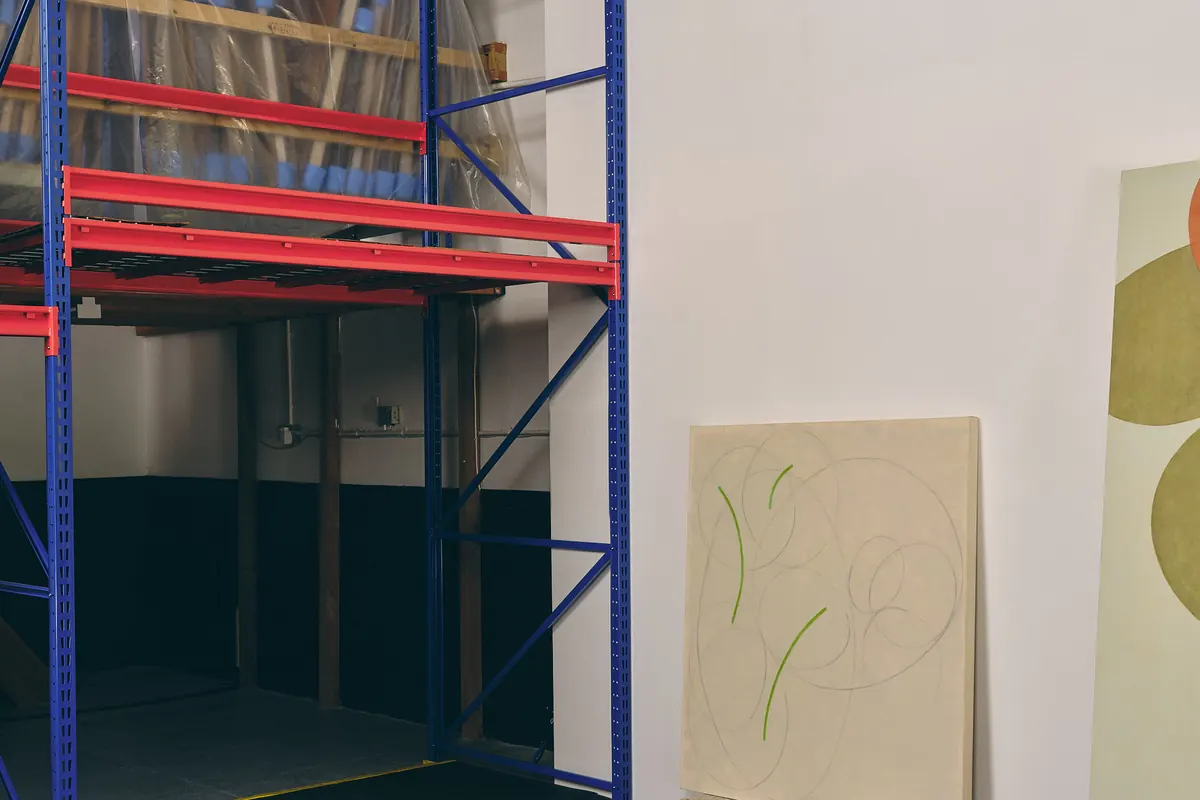
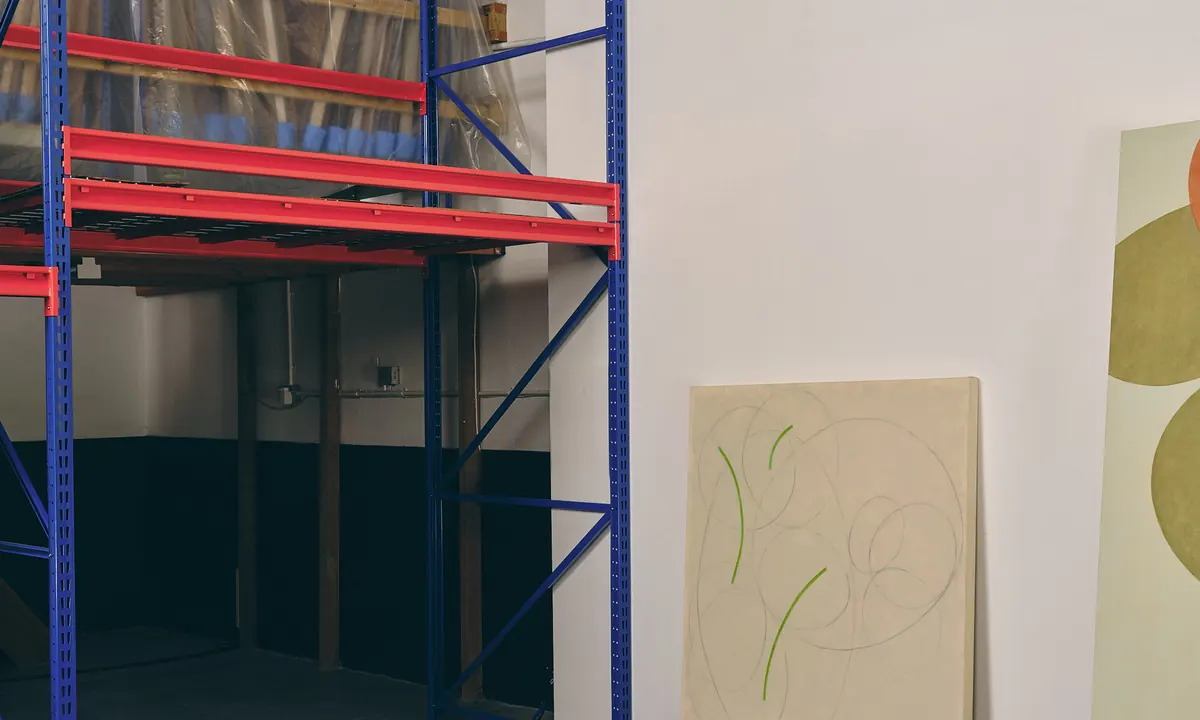
Fix the arrow, and settle the service page layouts
- The CSS arrow was broken: the head floated above the shaft and the two never
  met. The head is now a square turned about its own centre and offset by
  0.207 of its side, which is how far a 45-degree rotation pushes a corner past
  its box, so the vertex lands exactly on the end of the line. This affected
  every arrow on the site - the enquiry rows on Contact, the enquiry block on
  the home page, and the links on About.
- About's "Get in touch" is now a line running on from the words with the arrow
  at its end, rather than an underline beneath them.
- Alternating rows are the same layout and ratio, mirrored: 5:3 throughout, on
  all three service pages.
- Storage & Handling runs head, 01.1 full width, then five mirrored rows.
- Collection Management's title no longer runs under the picture beside it; the
  display size is capped so the longest word holds its column.
- On a phone every picture below the lead takes the same 5:3 ratio.
- The pointer opens to 22px over a link rather than 34px.

diff --git a/storage-and-handling.html b/storage-and-handling.html
@@ -91,40 +91,48 @@
       <figcaption>141 Acton Lane.</figcaption>
     </figure>
   </section>
-  <section class="shell two-up" data-reveal>
-    <article class="entry-card" id="storage">
-      <span class="ledger">01.1</span>
-      <h2>Storage</h2>
-      <p>Discreet, secure, climate-controlled storage in Park Royal, north-west London. We offer some of the most competitive storage rates in the city without compromising on the care of the work.</p>
-      <ul class="spec">
-          <li>24-hour monitored security</li>
-          <li>Climate and humidity controlled throughout</li>
-          <li>Racking sized for works large and small</li>
-          <li>Every movement handled by trained fine art technicians</li>
-          <li>Declared values required for all works stored; insurance cover available through us or your own policy</li>
-      </ul>
-      <figure>
-        <div class="plate plate--r32">
-          <img src="assets/img/sh-storage-1200.webp" width="1200" height="900"
-               loading="lazy" decoding="async" alt="Racking bays inside the Storehouse facility.">
-        </div>
-        <figcaption>Racking, sized for works large and small.</figcaption>
-      </figure>
-    </article>
-    <article class="entry-card" id="transport">
-      <span class="ledger">01.2</span>
-      <h2>Transport</h2>
-      <p>Collection and delivery across the UK. Works move between your premises and our facility, with installation in London and nationwide.</p>
-      <figure>
-        <div class="plate plate--r32">
+  <section class="shell entry-full" id="storage" data-reveal>
+    <div class="entry-full__text">
+      <div>
+        <span class="ledger">01.1</span>
+        <h2>Storage</h2>
+      </div>
+      <div>
+        <p>Discreet, secure, climate-controlled storage in Park Royal, north-west London. We offer some of the most competitive storage rates in the city without compromising on the care of the work.</p>
+        <ul class="spec">
+            <li>24-hour monitored security</li>
+            <li>Climate and humidity controlled throughout</li>
+            <li>Racking sized for works large and small</li>
+            <li>Every movement handled by trained fine art technicians</li>
+            <li>Declared values required for all works stored; insurance cover available through us or your own policy</li>
+        </ul>
+      </div>
+    </div>
+    <figure class="entry-full__figure">
+      <div class="plate plate--r53">
+        <img src="assets/img/sh-storage-1200.webp" width="1200" height="720"
+             loading="lazy" decoding="async" alt="Racking bays inside the Storehouse facility.">
+      </div>
+      <figcaption>Racking, sized for works large and small.</figcaption>
+    </figure>
+  </section>
+  <section class="shell alt" id="transport" data-side="left" data-reveal>
+    <div class="alt__grid">
+      <div class="alt__text">
+        <span class="ledger">01.2</span>
+        <h2>Transport</h2>
+        <p>Collection and delivery across the UK. Works move between your premises and our facility, with installation in London and nationwide.</p>
+      </div>
+      <figure class="alt__figure">
+        <div class="plate plate--r53">
           <img src="assets/img/sh-transport-1200.webp" width="1200" height="900"
                loading="lazy" decoding="async" alt="The padded interior of a fitted Storehouse vehicle.">
         </div>
         <figcaption>Fitted vehicles, loaded by the people who packed.</figcaption>
       </figure>
-    </article>
+    </div>
   </section>
-  <section class="shell alt" id="packing" data-side="left" data-reveal>
+  <section class="shell alt" id="packing" data-side="right" data-reveal>
     <div class="alt__grid">
       <div class="alt__text">
         <span class="ledger">01.3</span>
@@ -133,7 +141,7 @@
         <p>Condition checking, packing and handling by experienced technicians.</p>
       </div>
       <figure class="alt__figure">
-        <div class="plate plate--r52">
+        <div class="plate plate--r53">
           <img src="assets/img/sh-packing-1200.webp" width="1200" height="900"
                loading="lazy" decoding="async" alt="A technician wrapping a work on a padded table.">
         </div>
@@ -141,7 +149,7 @@
       </figure>
     </div>
   </section>
-  <section class="shell alt" id="installation" data-side="right" data-reveal>
+  <section class="shell alt" id="installation" data-side="left" data-reveal>
     <div class="alt__grid">
       <div class="alt__text">
         <span class="ledger">01.4</span>
@@ -158,7 +166,7 @@
       </figure>
     </div>
   </section>
-  <section class="shell alt" id="photography" data-side="left" data-reveal>
+  <section class="shell alt" id="photography" data-side="right" data-reveal>
     <div class="alt__grid">
       <div class="alt__text">
         <span class="ledger">01.5</span>
@@ -171,7 +179,7 @@
         </ul>
       </div>
       <figure class="alt__figure">
-        <div class="plate plate--r52">
+        <div class="plate plate--r53">
           <img src="assets/img/sh-photography-1200.webp" width="1200" height="900"
                loading="lazy" decoding="async" alt="A technician photographing a framed work on a tripod-mounted camera.">
         </div>
@@ -179,7 +187,7 @@
       </figure>
     </div>
   </section>
-  <section class="shell alt" id="viewing-room" data-side="right" data-reveal>
+  <section class="shell alt" id="viewing-room" data-side="left" data-reveal>
     <div class="alt__grid">
       <div class="alt__text">
         <span class="ledger">01.6</span>

diff --git a/assets/css/site.css b/assets/css/site.css
@@ -510,7 +510,7 @@ html[data-cursor="on"] .hero-field { cursor: none; }
    -------------------------------------------------------------------------- */
 
 .page-head { padding-top: clamp(2.5rem, 6vw, 5.5rem); padding-bottom: var(--band); }
-.page-head h1 { font-size: var(--t-display); }
+.page-head h1 { font-size: clamp(2.4rem, 1.1rem + 4.2vw, 4.6rem); }
 .page-head .ledger { margin-bottom: 1.4rem; display: block; }
 .page-head .lead {
   margin-top: clamp(1.75rem, 4vw, 3rem);
@@ -654,6 +654,17 @@ html[data-cursor="on"] .hero-field { cursor: none; }
     from { opacity: 0; transform: translateY(0.7rem); }
     to   { opacity: 1; transform: none; }
   }
+}
+
+/* On a phone every picture below the lead takes the same ratio, so the pages
+   read as one rhythm rather than three. */
+@media (max-width: 56rem) {
+  .two-up .plate,
+  .alt__figure .plate,
+  .entry-full .plate { aspect-ratio: 5 / 3; }
+  .two-up .plate img,
+  .alt__figure .plate img,
+  .entry-full .plate img { height: 100%; object-fit: cover; }
 }
 
 /* ---- Phones: one swipeable row, the line running through it ------------ */
@@ -801,7 +812,7 @@ html[data-cursor="on"] .hero-field { cursor: none; }
   .page-split { grid-template-columns: minmax(0, 0.62fr) minmax(0, 1fr); }
 }
 .page-split .ledger { display: block; margin-bottom: 1rem; }
-.page-split h1 { font-size: var(--t-display); }
+.page-split h1 { font-size: clamp(2.4rem, 1.1rem + 4.2vw, 4.6rem); }
 .page-split .lead {
   margin-top: clamp(1.25rem, 2.5vw, 2rem);
   font-size: var(--t-body);
@@ -826,6 +837,23 @@ html[data-cursor="on"] .hero-field { cursor: none; }
 .entry-card h2 { font-size: var(--t-title); margin-bottom: 1rem; }
 .entry-card .spec { margin-top: 1.25rem; }
 .entry-card figure { margin: var(--stack) 0 0; }
+
+/* A full-width entry: the words in two columns across the top, the picture
+   spanning the page beneath them. */
+.entry-full { padding-block: clamp(2rem, 1rem + 2.6vw, 3.25rem); border-top: 1px solid var(--rule); }
+.entry-full__text {
+  display: grid;
+  gap: 0.75rem var(--gutter);
+  grid-template-columns: 1fr;
+  margin-bottom: var(--stack);
+}
+@media (min-width: 56rem) {
+  .entry-full__text { grid-template-columns: minmax(0, 1fr) minmax(0, 1fr); }
+}
+.entry-full__text .ledger { display: block; margin-bottom: 0.7rem; }
+.entry-full__text h2 { font-size: var(--t-title); }
+.entry-full__text .spec { margin-top: 1.5rem; }
+.entry-full__figure { margin: 0; }
 
 /* Alternating entries: text and picture swap sides down the page, so the eye
    is carried from one to the next rather than reading a single column. */
@@ -972,6 +1000,22 @@ figure { margin: 0; }
 .panel .link { border-bottom-color: color-mix(in srgb, var(--canvas) 50%, transparent); }
 .panel .link:hover { color: var(--canvas); border-bottom-color: var(--canvas); }
 
+.link--trail {
+  --arrow-w: 3.4em;
+  display: inline-flex;
+  align-items: center;
+  gap: 0.9rem;
+  font-family: var(--sans);
+  font-size: var(--t-body);
+  text-decoration: none;
+  border: 0;
+  transition: color 0.25s ease;
+}
+.link--trail:hover { color: var(--ultramarine); }
+.link--trail .arrow { transition: transform 0.35s cubic-bezier(0.22, 1, 0.36, 1); }
+.link--trail:hover .arrow { transform: translateX(0.3rem); }
+
+
 .action {
   display: inline-flex;
   align-items: baseline;
@@ -988,27 +1032,32 @@ figure { margin: 0; }
 .arrow {
   display: inline-block;
   position: relative;
-  width: 1.35em;
-  height: 0.62em;
+  width: var(--arrow-w, 1.9em);
+  height: 0.8em;
   flex: none;
+  vertical-align: middle;
 }
+/* The shaft, on the vertical centre of the element. */
 .arrow::before {
   content: "";
   position: absolute;
   top: 50%; left: 0; right: 0;
   height: 1px;
+  margin-top: -0.5px;
   background: currentColor;
 }
+/* The head: a square turned about its own centre, so its vertex lands exactly
+   on the end of the shaft. Offset by 0.207 x its side, which is how far a
+   45-degree rotation pushes the corner past the box. */
 .arrow::after {
   content: "";
   position: absolute;
-  top: 50%; right: 0;
-  width: 0.34em; height: 0.34em;
-  margin-top: -0.17em;
+  top: 50%; right: 0.091em;
+  width: 0.44em; height: 0.44em;
+  margin-top: -0.22em;
   border-top: 1px solid currentColor;
   border-right: 1px solid currentColor;
   transform: rotate(45deg);
-  transform-origin: top right;
 }
 .action .arrow { transition: transform 0.35s cubic-bezier(0.22, 1, 0.36, 1); }
 .action:hover .arrow { transform: translateX(0.35rem); }
@@ -1274,8 +1323,8 @@ address {
 
   /* It opens up over anything you can act on. */
   .cursor-dot[data-over="link"] {
-    width: 34px; height: 34px;
-    margin: -17px 0 0 -17px;
+    width: 22px; height: 22px;
+    margin: -11px 0 0 -11px;
     background: color-mix(in srgb, var(--ultramarine) 34%, transparent);
   }
   /* On the dark and blue grounds it inverts so it stays visible. */

diff --git a/about.html b/about.html
@@ -101,7 +101,7 @@
              ================================================================ -->
 
         <p style="margin-top:1.5rem">
-          <a class="link" href="contact.html">Get in touch <span class="arrow" aria-hidden="true"></span></a>
+          <a class="link link--trail" href="contact.html">Get in touch <span class="arrow" aria-hidden="true"></span></a>
         </p>
       </div>
 

diff --git a/collection-management.html b/collection-management.html
@@ -131,7 +131,7 @@
         </ul>
       </div>
       <figure class="alt__figure">
-        <div class="plate plate--r52">
+        <div class="plate plate--r53">
           <img src="assets/img/cm-research-1200.webp" width="1200" height="900"
                loading="lazy" decoding="async" alt="A gloved hand holding a tape measure across the back of a stretched canvas.">
         </div>

diff --git a/exhibition-services.html b/exhibition-services.html
@@ -130,7 +130,7 @@
         </ul>
       </div>
       <figure class="alt__figure">
-        <div class="plate plate--r52">
+        <div class="plate plate--r53">
           <img src="assets/img/ex-shipping-1200.webp" width="1200" height="900"
                loading="lazy" decoding="async" alt="Two marked Storehouse crates standing on their bearers.">
         </div>

diff --git a/README.md b/README.md
@@ -98,6 +98,11 @@ The brand faces, self-hosted as woff2 in `assets/fonts/`:
 | Body copy | Rhymes Text | `rhymes-text-400/500.woff2` |
 | Index numbers, captions | IBM Plex Mono | Google Fonts |
 
+Arrows are drawn in CSS rather than typed — a shaft with a square turned about
+its own centre so the vertex lands exactly on the end of it. That is both
+because the Beausite trial has no arrow glyph and because it lets the line run
+on from the words, as on the About page's "Get in touch".
+
 > **These are trial files and are not licensed for use on a public site.**
 > One of them says so in its own filename
 > (`RhymesTextTrialUnlicensed`). Web licences must be bought and the licensed
@@ -176,10 +181,18 @@ shape, built to Tom's reference:
 3. `.alt` rows for the rest — text and picture on opposite edges, alternating,
    text vertically centred against the picture.
 
-The picture ratios differ by placement, as they do on the reference: 4:3 for
-the head, 3:2 in the pair, then 5:2 and 5:3 alternating down the page. Each
-image is cropped to its placement's ratio at source, with a focal point set per
-picture, rather than being cropped twice by `object-fit`.
+The picture ratios are 4:3 for the head and 5:3 for every entry below it, with
+the pair on Exhibition Services and Collection Management at 3:2. Alternating
+rows are the same layout and the same ratio, simply mirrored. Each image is
+cropped to its placement's ratio at source, with a focal point set per picture,
+rather than being cropped twice by `object-fit`.
+
+On a phone every picture below the lead takes 5:3, so the three pages read as
+one rhythm.
+
+Storage & Handling has six entries rather than four, so it runs head, then
+01.1 full width (`.entry-full` — the words in two columns, the picture across
+the page), then five alternating rows starting on the left.
 
 `data-side` names where the *text* sits; the picture takes the other edge. It is
 an attribute rather than `:nth-of-type`, which would also count the page heading
